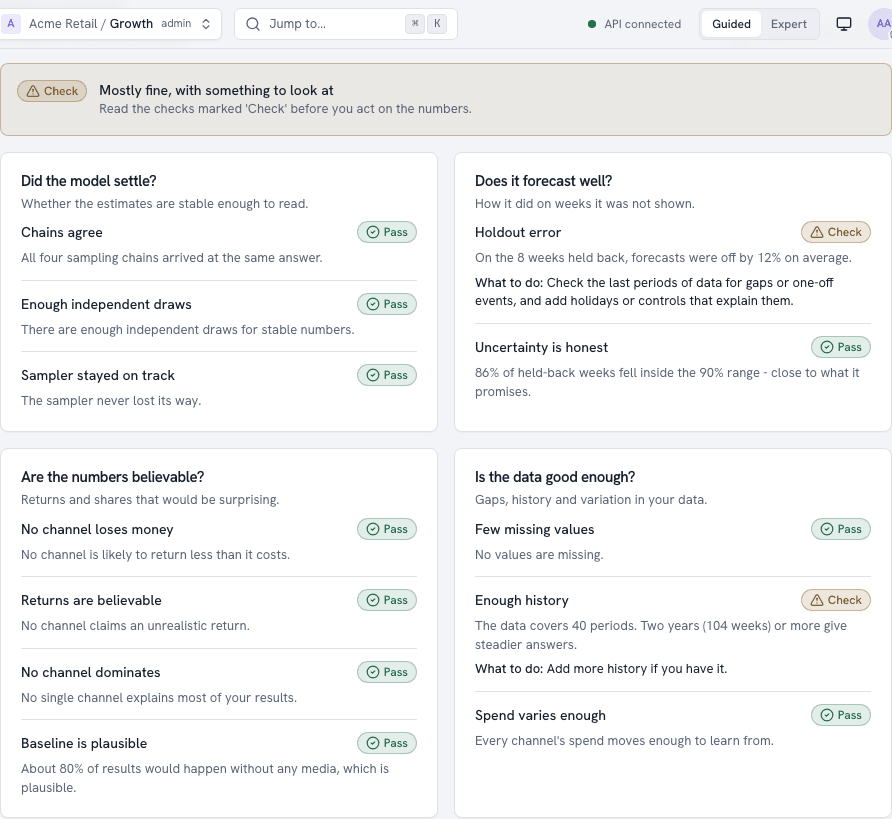
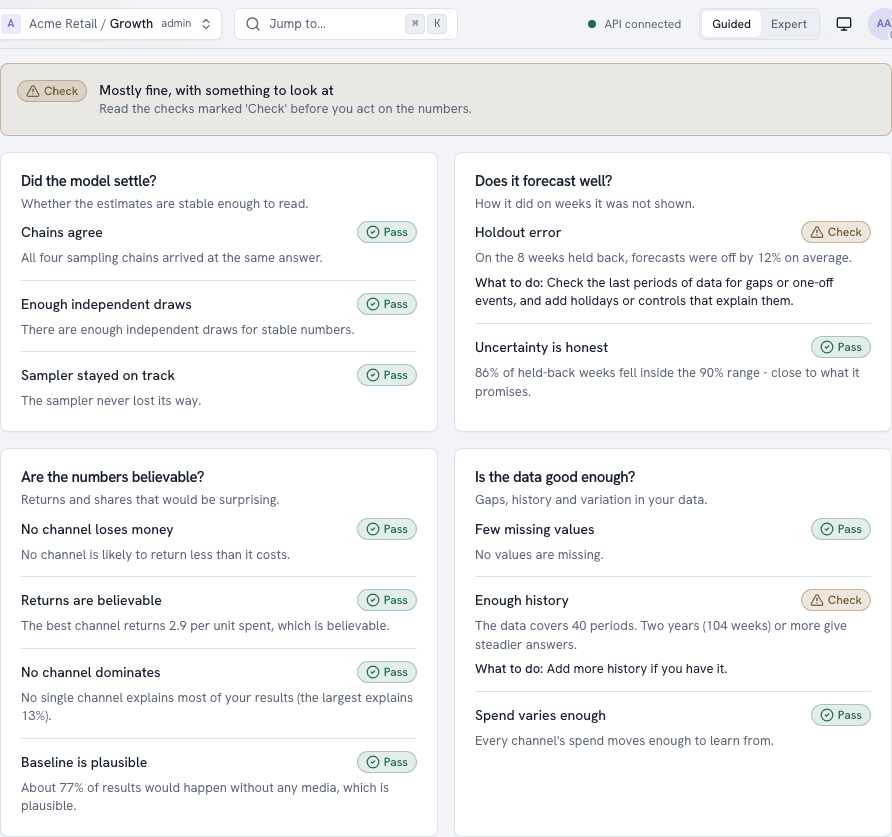
fix(web): derive the mock scorecard's media checks from the fitted response grid
The mock engine hard-coded the scorecard's baseline share at 80% (and the
largest channel share at 9%, the best ROI at 3.4) while the mock report
read the response grid, so the Guided tutorial screenshots said media
drove 23% of results and that 80% would happen without media. The
baseline_share, share_outlier and roi_absurd checks are now computed with
the report's own baselineShare/channelHeadlines from the same grid and
graded with the spec's thresholds; without media channels they are
skipped. Recaptured guided-report.png and guided-scorecard.png.

diff --git a/apps/web/src/mocks/guided-engine.ts b/apps/web/src/mocks/guided-engine.ts
@@ -10,7 +10,7 @@ import type { DataSchema, DataSummary, IngestMapping, Issue, Scorecard } from "@
 import { parseCsv } from "@/lib/csv";
 import { pivotMff } from "@/features/guided/profile";
 import type { ColumnProfile, GuidedAnswers, GuidedDraft, GuidedQuestion, GuidedTemplate, QuestionSuggestion, RoleSuggestions } from "@/features/guided/types";
-import type { ResponseGrid } from "@/features/guided/whatif";
+import { baselineShare, channelHeadlines, type ResponseGrid } from "@/features/guided/whatif";
 
 // ----------------------------------------------------------------------------- role detection
 
@@ -346,8 +346,43 @@ export function synthGrid(inp: FitInputs, draws = 120): ResponseGrid {
   };
 }
 
-/** The scorecard of the mock fit: everything passes except a borderline holdout error. */
-export function synthScorecard(template: GuidedTemplate, history: number): Scorecard {
+type ScorecardItem = NonNullable<Scorecard["items"]>[number];
+
+/** Pass/warn/fail as `mapi_spec.scorecard` grades a check (`max`, or a band around `target`). */
+function grade(value: number, pass: number, warn: number, target?: number): ScorecardItem["status"] {
+  const off = target == null ? value : Math.abs(value - target);
+  return off <= pass ? "pass" : off <= warn ? "warn" : "fail";
+}
+
+/**
+ * The media plausibility checks, read from the response grid that the report's headline and
+ * channel table summarise, so the screens (and the tutorial screenshots) agree. None without
+ * media channels.
+ */
+function mediaChecks(grid: ResponseGrid | null): Record<string, ScorecardItem> {
+  const base = grid?.channels.length ? baselineShare(grid) : null;
+  if (!grid || !base) return {};
+  const heads = channelHeadlines(grid);
+  const pct = (v: number) => `${Math.round(v * 100)}%`;
+  const b = base.mean;
+  const top = Math.max(...heads.map((h) => h.share?.mean ?? 0));
+  const roiMax = Math.max(...heads.map((h) => h.roi?.mean ?? 0));
+  const bStatus = grade(b, 0.4, 0.48, 0.5);
+  const topStatus = grade(top, 0.6, 0.9);
+  const roiStatus = grade(roiMax, 20, 100);
+  return {
+    "plausibility.roi_absurd": { code: "ROI_ABSURD", check: "plausibility.roi_absurd", category: "plausibility", status: roiStatus, title: "Returns are believable", message_plain: roiStatus === "pass" ? `The best channel returns ${roiMax.toFixed(1)} per unit spent, which is believable.` : `A channel returns ${roiMax.toFixed(1)} per unit spent, which is unusually high.`, metric: "roi_max", value: roiMax, threshold: 20, docs_anchor: "check-plausibility-roi-absurd" },
+    "plausibility.share_outlier": { code: "SHARE_OUTLIER", check: "plausibility.share_outlier", category: "plausibility", status: topStatus, title: "No channel dominates", message_plain: topStatus === "pass" ? `No single channel explains most of your results (the largest explains ${pct(top)}).` : `One channel explains ${pct(top)} of your results, more than usual.`, metric: "max_channel_share", value: top, threshold: 0.6, docs_anchor: "check-plausibility-share-outlier" },
+    "plausibility.baseline_share": { code: "BASELINE_SHARE", check: "plausibility.baseline_share", category: "plausibility", status: bStatus, title: "Baseline is plausible", message_plain: `About ${pct(b)} of results would happen without any media, which is ${bStatus === "pass" ? "plausible" : "unusual"}.`, suggested_action: bStatus === "pass" ? null : "State a baseline share in business priors, or review the controls.", metric: "baseline_share", value: b, threshold: 0.4, docs_anchor: "check-plausibility-baseline-share" },
+  };
+}
+
+/**
+ * The scorecard of the mock fit: everything passes except a borderline holdout error. The media
+ * checks come from `grid`, the fit's response grid; without media channels they are skipped,
+ * as the runner skips them.
+ */
+export function synthScorecard(template: GuidedTemplate, history: number, grid: ResponseGrid | null = null): Scorecard {
   const all: Record<string, NonNullable<Scorecard["items"]>[number]> = {
     "convergence.rhat": { code: "RHAT_OK", check: "convergence.rhat", category: "convergence", status: "pass", title: "Chains agree", message_plain: "All four sampling chains arrived at the same answer.", metric: "r_hat_max", value: 1.004, threshold: 1.01, docs_anchor: "check-convergence-rhat" },
     "convergence.ess": { code: "ESS_OK", check: "convergence.ess", category: "convergence", status: "pass", title: "Enough independent draws", message_plain: "There are enough independent draws for stable numbers.", metric: "ess_bulk_min", value: 812, threshold: 400, docs_anchor: "check-convergence-ess" },
@@ -355,16 +390,17 @@ export function synthScorecard(template: GuidedTemplate, history: number): Score
     "holdout.mape": { code: "HOLDOUT_MAPE", check: "holdout.mape", category: "holdout", status: "warn", title: "Holdout error", message_plain: "On the 8 weeks held back, forecasts were off by 12% on average.", suggested_action: "Check the last periods of data for gaps or one-off events, and add holidays or controls that explain them.", metric: "mape", value: 0.12, threshold: 0.1, docs_anchor: "check-holdout-mape" },
     "holdout.coverage_90": { code: "HOLDOUT_COVERAGE", check: "holdout.coverage_90", category: "holdout", status: "pass", title: "Uncertainty is honest", message_plain: "86% of held-back weeks fell inside the 90% range - close to what it promises.", metric: "coverage_90", value: 0.86, threshold: 0.1, docs_anchor: "check-holdout-coverage-90" },
     "plausibility.negative_roi": { code: "NEGATIVE_ROI_OK", check: "plausibility.negative_roi", category: "plausibility", status: "pass", title: "No channel loses money", message_plain: "No channel is likely to return less than it costs.", metric: "negative_roi_share", value: 0.01, threshold: 0.1, docs_anchor: "check-plausibility-negative-roi" },
-    "plausibility.roi_absurd": { code: "ROI_ABSURD_OK", check: "plausibility.roi_absurd", category: "plausibility", status: "pass", title: "Returns are believable", message_plain: "No channel claims an unrealistic return.", metric: "roi_max", value: 3.4, threshold: 20, docs_anchor: "check-plausibility-roi-absurd" },
-    "plausibility.share_outlier": { code: "SHARE_OK", check: "plausibility.share_outlier", category: "plausibility", status: "pass", title: "No channel dominates", message_plain: "No single channel explains most of your results.", metric: "max_channel_share", value: 0.09, threshold: 0.6, docs_anchor: "check-plausibility-share-outlier" },
-    "plausibility.baseline_share": { code: "BASELINE_OK", check: "plausibility.baseline_share", category: "plausibility", status: "pass", title: "Baseline is plausible", message_plain: "About 80% of results would happen without any media, which is plausible.", metric: "baseline_share", value: 0.8, threshold: 0.4, docs_anchor: "check-plausibility-baseline-share" },
+    ...mediaChecks(grid),
     "data.missing": { code: "MISSING_OK", check: "data.missing", category: "data", status: "pass", title: "Few missing values", message_plain: "No values are missing.", metric: "missing_fraction", value: 0, threshold: 0.05, docs_anchor: "check-data-missing" },
     "data.history": { code: "HISTORY_SHORT", check: "data.history", category: "data", status: history >= 104 ? "pass" : "warn", title: "Enough history", message_plain: `The data covers ${history} periods. Two years (104 weeks) or more give steadier answers.`, suggested_action: history >= 104 ? null : "Add more history if you have it.", metric: "history_periods", value: history, threshold: 104, docs_anchor: "check-data-history" },
     "data.spend_variation": { code: "SPEND_VARIATION_OK", check: "data.spend_variation", category: "data", status: "pass", title: "Spend varies enough", message_plain: "Every channel's spend moves enough to learn from.", metric: "spend_cv_min", value: 0.24, threshold: 0.1, docs_anchor: "check-data-spend-variation" },
   };
-  const items = (template.scorecard_checks ?? []).map((c) => all[c]).filter((x): x is NonNullable<typeof x> => Boolean(x));
+  const checks = template.scorecard_checks ?? [];
+  const items = checks.map((c) => all[c]).filter((x): x is NonNullable<typeof x> => Boolean(x));
+  const skipped: Record<string, string> = {};
+  for (const c of checks) if (!all[c] && c.startsWith("plausibility.")) skipped[c] = "the model has no media channels";
   const overall = items.some((i) => i.status === "fail") ? "fail" : items.some((i) => i.status === "warn") ? "warn" : "pass";
-  return { overall, items, skipped: {} };
+  return { overall, items, skipped };
 }
 
 /** The totals of the uploaded table that a fit needs. */

diff --git a/apps/web/src/features/guided/guided.test.ts b/apps/web/src/features/guided/guided.test.ts
@@ -297,6 +297,35 @@ describe("Guided usability fixes (M3 tester run)", () => {
     expect(doc.model.fit.draws).toBe(500); // the original is untouched
   });
 
+  it("gives the mock scorecard the same media shares as the mock report", async () => {
+    // The tutorial screenshots come from the mock engine: its scorecard used to say 80% of
+    // results happen without media while the report headline said media drove 23%.
+    const { synthGrid, synthScorecard } = await import("@/mocks/guided-engine");
+    const { baselineShare, channelHeadlines } = await import("./whatif");
+    const grid = synthGrid({
+      channels: ["tv", "search", "social"],
+      geos: null,
+      spend: [120_000, 60_000, 90_000],
+      kpiTotal: 4_000_000,
+      kpiSeries: [{ t: "2024-01-01", y: 4_000_000 }],
+      statedRoi: {},
+      kpiUnits: null,
+    });
+    const media = 1 - baselineShare(grid)!.mean; // the report's "Results driven by media"
+    const shares = channelHeadlines(grid).map((h) => h.share!.mean);
+    const card = synthScorecard(tpl("geo_mmm"), 104, grid);
+    const item = (check: string) => card.items!.find((i) => i.check === check)!;
+    expect((item("plausibility.baseline_share").value as number) + media).toBeCloseTo(1, 9);
+    expect(item("plausibility.baseline_share").message_plain).toContain(`${Math.round((1 - media) * 100)}%`);
+    expect(item("plausibility.share_outlier").value).toBeCloseTo(Math.max(...shares), 9);
+    const rois = channelHeadlines(grid).map((h) => h.roi!.mean);
+    expect(item("plausibility.roi_absurd").value).toBeCloseTo(Math.max(...rois), 9);
+    // a fit without media channels has no media checks to show
+    const none = synthScorecard(tpl("geo_mmm"), 104, null);
+    expect(none.items!.some((i) => i.check === "plausibility.baseline_share")).toBe(false);
+    expect(Object.keys(none.skipped ?? {})).toContain("plausibility.baseline_share");
+  });
+
   it("offers result charts for sharing before the sampler's diagnostics", async () => {
     const { shareOrder } = await import("./steps/share-step");
     const ids = shareOrder([{ id: "core.convergence" }, { id: "core.ppc_fan" }, { id: "mmm.decomposition" }, { id: "mmm.response_curves" }]).map((p) => p.id);

diff --git a/apps/web/src/mocks/guided.ts b/apps/web/src/mocks/guided.ts
@@ -340,6 +340,8 @@ function createModelVersion(state: GuidedMockState, f: FitRecord): ModelVersion 
   const version = mrec.versions.length + 1;
   const mvId = nid(state, "mv");
   const history = inputs.kpiSeries.length;
+  // one grid for the report, the what-if and the scorecard's media checks, so they agree
+  const mediaGrid = inputs.channels.length ? synthGrid(inputs) : null;
   const mv: ModelVersion = {
     ...fx.modelVersion,
     id: mvId,
@@ -350,7 +352,7 @@ function createModelVersion(state: GuidedMockState, f: FitRecord): ModelVersion 
     ref: `model://${f.run.project_id}/${name}@v${version}`,
     run_id: f.run.id,
     diagnostics: [],
-    scorecard: synthScorecard(tpl, history),
+    scorecard: synthScorecard(tpl, history, mediaGrid),
     metrics: { mape: 12, coverage_90: 0.86 }, // mapi_sdk reports MAPE in percent
     lineage: { ...fx.modelVersion.lineage, run_id: f.run.id, plugin: `${tpl.plugin.split("@")[0]}@1.3.2` },
     capabilities: { inference: "mcmc", representation: "draws", score_modes: ["predict", "forecast", "counterfactual", "evaluate"], loo_valid: true },
@@ -368,8 +370,8 @@ function createModelVersion(state: GuidedMockState, f: FitRecord): ModelVersion 
   });
   putJson(state, mvId, "ui/plotdata/fit.json", fit);
   plots.push({ id: "core.ppc_fan", title: "Model fit against your data", kind: "vega-lite", persona: "both", recipe: "core.ppc_fan@1.0.0", caption_plain: "Dots are your actual results; the band is where the model expected 90% of weeks.", href: `/v1/models/${mrec.model.id}/versions/${version}/plots/core.ppc_fan` });
-  if (inputs.channels.length) {
-    const grid = synthGrid(inputs);
+  if (mediaGrid) {
+    const grid = mediaGrid;
     putJson(state, mvId, "ui/grids/response_curves.json", grid);
     const one = grid.multipliers.indexOf(1);
     const at1 = grid.contribution.map((perC) => perC.map((row) => row[one] as number));

diff --git a/CHANGELOG.md b/CHANGELOG.md
@@ -392,6 +392,10 @@ milestone releases are tagged on `main`.
   [--description TEXT]`. A webhook created with `--inactive`, or disabled automatically after
   repeated failures, could only be switched back on in the browser; `--enable` does it from
   the command line and resets the failure count.
+- **docs**: the Guided tutorial's report and scorecard screenshots contradicted each other
+  (media drove 23% of results, yet "about 80%" would happen without media). The mock-mode
+  scorecard now reads its baseline, largest-channel and best-return checks from the same
+  response grid as the report, and the screenshots were recaptured.
 - **server**: "Run exact" failed on every live stack: `POST /v1/guided/requests:compile` left
   what-ifs and presets over the fit window without data. The compiled request now names the
   fit dataset version, and a score request without data, scenario or horizon is refused with
